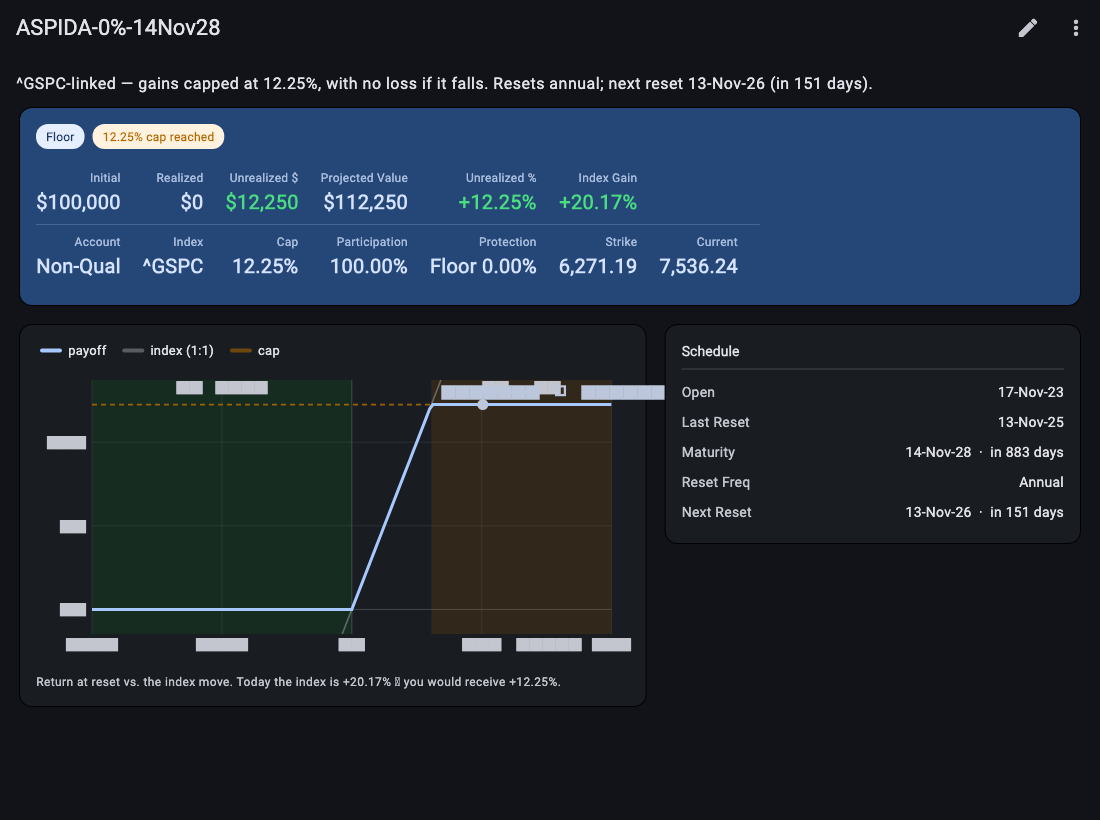
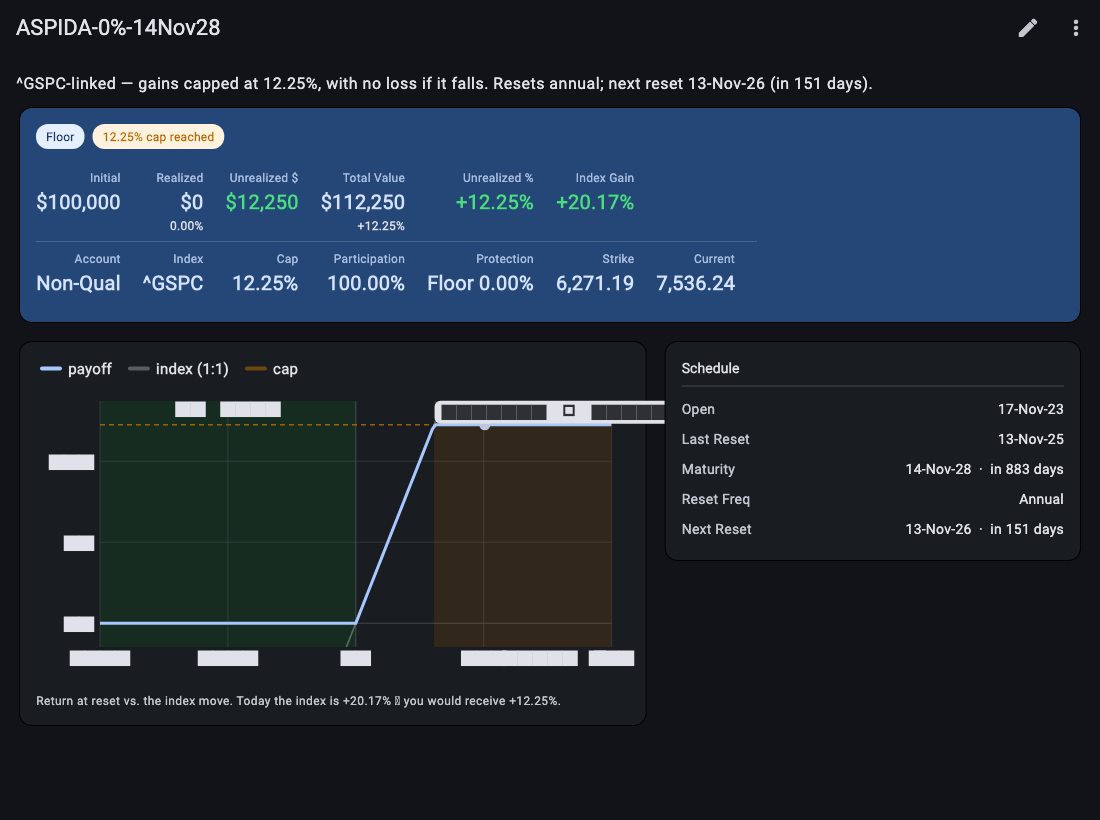
Hero: composition bar (Principal | Realized | Unrealized) + return %s
Replace the abstract ±50% gain gauge with a stacked bar showing how Total
Value breaks down, with a dot legend that matches the segments:
- Total Value gains an all-in return % (no decimals); red on a loss
- "Total Unrealized G/L" → "Unrealized" (▲/▼, red/green)
- Realized in the legend shows its % of principal
- Realized segment is amber, distinct from the green Unrealized
Refresh README screenshots from the golden harness.

diff --git a/app/lib/ui/portfolio_hero.dart b/app/lib/ui/portfolio_hero.dart
@@ -1,7 +1,8 @@
 // Copyright 2026 Jim Zucker
 // SPDX-License-Identifier: Apache-2.0
 // A summary band above the table: a protection-mix donut (principal split
-// across Floor / Hard / Soft), a projected-gain bar, and the soonest
+// across Floor / Hard / Soft), the headline totals with a Total-Value
+// composition bar (Principal | Realized | Unrealized), and the soonest
 // upcoming resets. Replaces the plain stats row.
 
 import 'dart:math' as math;
@@ -134,8 +135,13 @@ class _ProjectedBlock extends StatelessWidget {
 
   @override
   Widget build(BuildContext context) {
-    final gain = store.totalProjGain;
+    final gain = store.totalProjGain; // unrealized $ (000)
     final pct = store.totalInitial <= 0 ? 0.0 : gain / store.totalInitial;
+    final retPct = store.totalInitial <= 0
+        ? 0.0
+        : (store.totalProjValue - store.totalInitial) / store.totalInitial;
+    final realPct =
+        store.totalInitial <= 0 ? 0.0 : store.totalRealized / store.totalInitial;
     final gc = gainColor(gain, cs);
     Widget kpi(String label, Widget value) => Column(
           mainAxisSize: MainAxisSize.min,
@@ -153,57 +159,88 @@ class _ProjectedBlock extends StatelessWidget {
         Text('${store.holdings.length} contracts',
             style: TextStyle(fontSize: 13, color: cs.onSurfaceVariant)),
         const SizedBox(height: 6),
-        // The two headline totals, large and meaningfully colored.
+        // Total Value (with all-in return %, no decimals) + Unrealized (signed).
         Wrap(spacing: 32, runSpacing: 8, children: [
           kpi(
             'Total Value',
-            TweenAnimationBuilder<double>(
-              tween: Tween(begin: 0, end: store.totalProjValue),
-              duration: const Duration(milliseconds: 700),
-              curve: Curves.easeOutCubic,
-              builder: (_, v, _) => Text(moneyK(v), style: big),
-            ),
+            Text.rich(TextSpan(children: [
+              TextSpan(text: moneyK(store.totalProjValue), style: big),
+              TextSpan(
+                  text: '  (${_pct0(retPct)})',
+                  style: big.copyWith(
+                      color: retPct < 0 ? lossColor(retPct, cs) : cs.onSurfaceVariant)),
+            ])),
           ),
           kpi(
-            'Total Unrealized G/L',
+            'Unrealized',
             Text('${gain >= 0 ? '▲' : '▼'} ${moneyK(gain)}  (${pctSigned(pct)})',
                 style: big.copyWith(color: gc)),
           ),
         ]),
+        const SizedBox(height: 10),
+        // Composition of Total Value: Principal | Realized | Unrealized.
+        SizedBox(
+          width: 320,
+          child: _CompositionBar(
+              principal: store.totalInitial,
+              realized: store.totalRealized,
+              unrealized: gain,
+              cs: cs),
+        ),
         const SizedBox(height: 8),
-        SizedBox(width: 240, child: _GainBar(pct: pct, color: gc)),
-        const SizedBox(height: 6),
-        Text(
-            'Principal ${moneyK(store.totalInitial)}   ·   '
-            'Realized ${moneyK(store.totalRealized)}',
-            style: TextStyle(fontSize: 13, color: cs.onSurfaceVariant)),
+        // The bar's legend — dots match the segments.
+        Wrap(spacing: 18, runSpacing: 4, children: [
+          _legendDot(cs.primary, 'Principal ${moneyK(store.totalInitial)}', cs),
+          _legendDot(capAmber,
+              'Realized ${moneyK(store.totalRealized)}  (${pctSigned(realPct)})', cs),
+          _legendDot(gc, 'Unrealized ${moneyK(gain)}', cs),
+        ]),
       ],
     );
   }
+
+  static Widget _legendDot(Color c, String text, ColorScheme cs) =>
+      Row(mainAxisSize: MainAxisSize.min, children: [
+        Container(
+            width: 10,
+            height: 10,
+            decoration: BoxDecoration(color: c, shape: BoxShape.circle)),
+        const SizedBox(width: 6),
+        Text(text, style: TextStyle(fontSize: 13, color: cs.onSurfaceVariant)),
+      ]);
 }
 
-class _GainBar extends StatelessWidget {
-  const _GainBar({required this.pct, required this.color});
-  final double pct;
-  final Color color;
+/// Signed percentage with no decimals (e.g. "+8%", "-10%").
+String _pct0(double v) => '${v >= 0 ? '+' : ''}${(v * 100).round()}%';
+
+/// Stacked bar showing how Total Value breaks down: Principal (base) +
+/// Realized (banked) + Unrealized (gain green / loss red, eating in when
+/// negative). Segment widths are proportional to the dollar amounts.
+class _CompositionBar extends StatelessWidget {
+  const _CompositionBar(
+      {required this.principal,
+      required this.realized,
+      required this.unrealized,
+      required this.cs});
+  final double principal, realized, unrealized;
+  final ColorScheme cs;
 
   @override
   Widget build(BuildContext context) {
-    final cs = Theme.of(context).colorScheme;
-    // Map gain% onto a bar around a center baseline (±50% full scale).
-    final frac = (pct.abs() / 0.5).clamp(0.0, 1.0);
+    int f(double v) => (v.abs() * 1000).round().clamp(1, 1 << 30);
+    final segments = <(Color, int)>[
+      (cs.primary, f(principal)),
+      if (realized != 0) (capAmber, f(realized)),
+      (gainColor(unrealized, cs), f(unrealized)),
+    ];
     return ClipRRect(
-      borderRadius: BorderRadius.circular(4),
-      child: Container(
-        height: 8,
-        color: cs.surfaceContainerLow,
-        child: Align(
-          alignment: pct >= 0 ? Alignment.centerLeft : Alignment.centerRight,
-          child: FractionallySizedBox(
-            widthFactor: frac == 0 ? 0.02 : frac,
-            child: Container(color: color),
-          ),
-        ),
+      borderRadius: BorderRadius.circular(5),
+      child: SizedBox(
+        height: 14,
+        child: Row(children: [
+          for (final (c, flex) in segments)
+            Expanded(flex: flex, child: Container(color: c)),
+        ]),
       ),
     );
   }